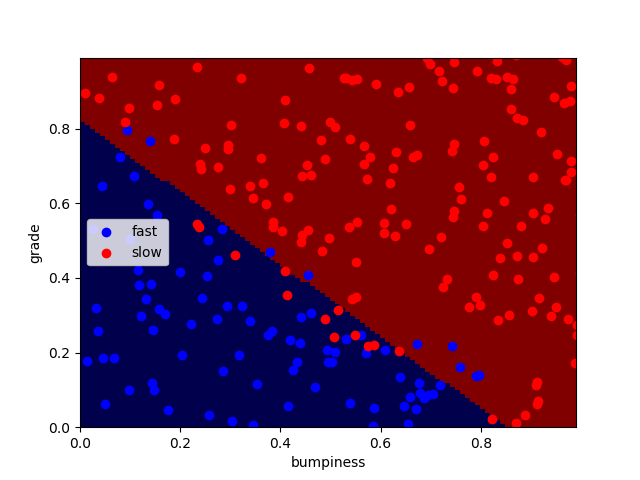
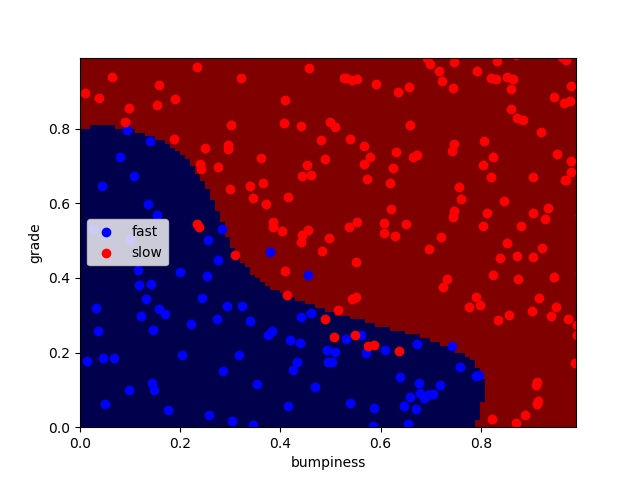
feat: Other algorithms mini-project

diff --git a/L5_Other_algorithms/B_DT_author_id.py b/L5_Other_algorithms/B_DT_author_id.py
@@ -1,0 +1,50 @@
+"""
+    Use other classifies to identify emails by their authors
+    
+    authors and labels:
+    Sara has label 0
+    Chris has label 1
+"""
+
+# Datasets:  https://github.com/udacity/ud120-projects/tree/master/tools
+
+from sklearn.neighbors import KNeighborsClassifier
+from sklearn.ensemble import AdaBoostClassifier
+from sklearn.ensemble import RandomForestClassifier
+from sklearn.metrics import accuracy_score
+
+import sys
+from time import time
+from sklearn.tree import DecisionTreeClassifier
+sys.path.append("../tools/")
+from email_preprocess import preprocess
+
+REDUCED = False
+
+# features_train and features_test are the features for the training and testing datasets, respectively
+# labels_train and labels_test are the corresponding item labels
+features_train, features_test, labels_train, labels_test = preprocess()
+
+if REDUCED:
+    features_train = features_train[:len(features_train) // 100]
+    labels_train = labels_train[:len(labels_train) // 100]
+
+classifiers = KNeighborsClassifier(n_neighbors=10), AdaBoostClassifier(n_estimators=100), RandomForestClassifier(100)
+
+for model in classifiers:
+    t0 = time()
+
+    model.fit(features_train, labels_train)
+    t1 = time()
+
+    pred = model.predict(features_test)
+    t2 = time()
+
+    accuracy = accuracy_score(labels_test, pred)
+
+    print("\n", model)
+    print("accuracy: \t\t {:.6f}".format(accuracy))
+    print("train time(s): \t {:.6f}".format(t1-t0))
+    print("test time(s): \t {:.6f}".format(t2-t2))
+    # print("Chris emails: \t {}".format(sum(pred)))
+    print("number of features: {}".format(len(features_train[0])))

diff --git a/L5_Other_algorithms/A_DT_terrain_data.py b/L5_Other_algorithms/A_DT_terrain_data.py
@@ -12,7 +12,7 @@ from class_vis import prettyPicture
 
 features_train, labels_train, features_test, labels_test = makeTerrainData()
 
-classifiers = KNeighborsClassifier(n_neighbors=10), AdaBoostClassifier(n_estimators=100), RandomForestClassifier(100)
+classifiers = KNeighborsClassifier(n_neighbors=10), AdaBoostClassifier(n_estimators=100), RandomForestClassifier(1000)
 
 for clf in classifiers:
 

diff --git a/L3_SVM/A_SVM_terrain_data.py b/L3_SVM/A_SVM_terrain_data.py
@@ -8,7 +8,7 @@ from class_vis import prettyPicture
 
 features_train, labels_train, features_test, labels_test = makeTerrainData()
 
-clf = SVC(kernel="linear")
+clf = SVC(kernel="rbf", C=100000.0)
 t0 = time()
 
 clf.fit(features_train, labels_train)
